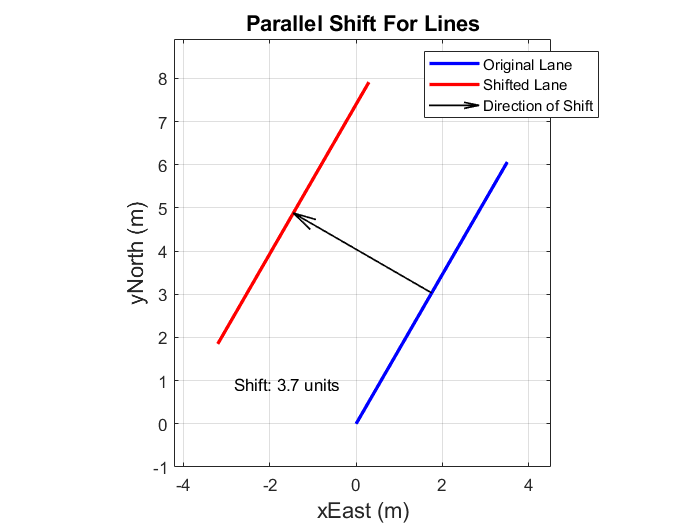
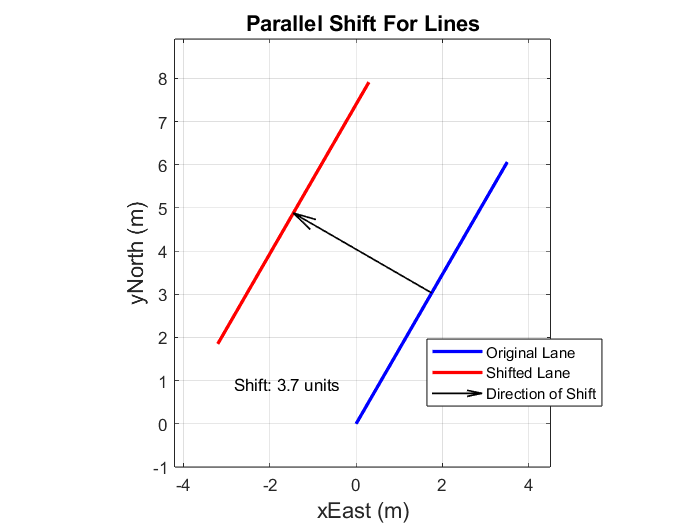
grids added

Changed region(s): [[0.27, 0.061, 0.87, 0.2133], [0.6, 0.64, 0.87, 0.7924], [0.27, 0.8838, 0.78, 0.9143]]

diff --git a/MATLAB/roadArcSpline/mainV8.m b/MATLAB/roadArcSpline/mainV8.m
@@ -15,11 +15,11 @@ HEREname = 'A38_laneData_v2.mat';
     retrieveOSM_v2(lat1, lat2, lon1, lon2, roadName,folderName);
 
 [OSM_lats,OSM_lons,h] = enu2geodetic(xEast,yNorth,0,refLat,refLon,0,wgs84Ellipsoid);
-
-figure;
-geoplot(OSM_lats,OSM_lons,'LineWidth',2)
-title("OpenStreetMap Data Example","FontSize",12)
-geobasemap satellite
+set(groot, 'defaultAxesXGrid', 'on', 'defaultAxesYGrid', 'on', 'defaultAxesZGrid', 'on');
+% figure;
+% geoplot(OSM_lats,OSM_lons,'LineWidth',2)
+% title("OpenStreetMap Data Example","FontSize",12)
+% geobasemap satellite
 
 [laneBorders,laneCenters] = retrieveHERE_v2(folderName,HEREname,refLat,refLon,[lat1 lat2], [lon1 lon2]);
 
@@ -61,6 +61,20 @@ for i = 1:length(xEastCenter)
     [all_clothoids{i}] = ...
         generateClothoids(xEastCenter{i},yNorthCenter{i},theta_GT{i},curvature_GT{i},dk{i},L{i});
 end
+
+figure;
+for i = 1:4
+    [HERE_lats,HERE_lons,h] = enu2geodetic(all_clothoids{1}(i).allX,all_clothoids{1}(i).allY...
+        ,0,refLat,refLon,0,wgs84Ellipsoid);
+
+    geoplot(HERE_lats,HERE_lons,'LineWidth',2)
+    hold on
+    title("G1 Clothoid Fitted Road Segments","FontSize",13)
+    geobasemap satellite
+end
+
+
+
 % Use clothoid fitting to fit lane boundaries
 for i = 2:length(xEastCenter_LB)
     [theta_GT_LB{i},curvature_GT_LB{i},dk_LB{i},L_LB{i},...
@@ -237,7 +251,7 @@ plot(rms_array_shifted,'DisplayName', 'RMS Error','LineWidth',1.5)
 hold on
 plot(max_err_array_shifted,'DisplayName', 'Max Error','LineWidth',1.5)
 ylabel('Error (m)','FontSize',13)
-xlabel('Index of 10 cm subsegment','FontSize',13)
+xlabel('Index of 10 m subsegment','FontSize',13)
 legend()
 title('Error Between Parallel Shifted Lane and Ground Truth','FontSize',13)
 ylim([0 0.3])
@@ -276,7 +290,7 @@ plot(rms_array_shifted_line,'DisplayName', 'RMS Error','LineWidth',1.5)
 hold on
 plot(max_err_array_shifted_line,'DisplayName', 'Max Error','LineWidth',1.5)
 ylabel('Error (m)','FontSize',13)
-xlabel('Index of 10 cm subsegment','FontSize',13)
+xlabel('Index of 10 m subsegment','FontSize',13)
 legend()
 title('Error Between Parallel Shifted Lane and Ground Truth','FontSize',13)
 ylim([0 0.15])
@@ -326,7 +340,7 @@ xlim([1 numel(rms_array_shifted_line)])
 %     legend()
 %     title('Euclidian Error Between Shifted Lane and Ground Truth','FontSize',13)
 % end
-%% Compute rms and max error of a picked reference segment
+%% Compute rms and max error of a picked reference arcspline segment
 segmentNum = 282;
 segmentLength = 1000; % samples
 xEastRef = [segments{1}(segmentNum).allX];
@@ -345,67 +359,67 @@ for j = 1:numel(rms_array_ref)
   [rms_array_ref(j), max_err_array_ref(j), errors] = ...
         computeSegmentError(measurement_xy,ground_truth_xy);
 end
-figure;
-plot(xEastRef,yNorthRef,'DisplayName',"Meas")
-hold on
-plot(ground_truth_xy(:,1),ground_truth_xy(:,2),'DisplayName',"GT")
-axis equal
-legend()
+% figure;
+% plot(xEastRef,yNorthRef,'DisplayName',"Meas")
+% hold on
+% plot(ground_truth_xy(:,1),ground_truth_xy(:,2),'DisplayName',"GT")
+% axis equal
+% legend()
 
 figure;
 plot(rms_array_ref,'DisplayName', 'RMS Error','LineWidth',1.5)
 hold on
-plot(max_err_array_ref,'DisplayName', 'Max Error','LineWidth',1.5)
+plot(max_err_array_ref,'DisplayName', 'Max Error','LineWidth',1.5,'Color',[0.8500, 0.3250, 0.0980])
 ylabel('Error (m)','FontSize',13)
 % yyaxis right
 % ylabel('Curvature (m^-^1)')
-xlabel('Index of 10 cm subsegment','FontSize',13)
+xlabel('Index of 10 m subsegment','FontSize',13)
 % xAxis = linspace(1,length(rms_array{i}),length(curvatures{i}));
 % plot(xAxis,curvatures{i} ,'DisplayName', strcat('Curvature:',num2str(i)))
 legend()
 title('Error Between Approximated Base Lane and Ground Truth','FontSize',13)
 ylim([0 0.1])
 xlim([1 numel(rms_array_ref)])
-%% Compute rms and max error of generated reference lane
-% segmentLength = 100;
-% xEastRef = [];
-% yNorthRef = [];
-% for i = 1:length(segments{1})
-%     sz = size(segments{1}(i).allX);
-%     if sz(1) == 1
-%         xEastRef = [xEastRef segments{1}(i).allX];
-%         yNorthRef = [yNorthRef segments{1}(i).allY];
-%     else
-%         xEastRef = [xEastRef segments{1}(i).allX'];
-%         yNorthRef = [yNorthRef segments{1}(i).allY'];
-%     end
-% end
-% rms_array_ref = zeros(floor(length(xEastRef)/segmentLength),1);
-% max_err_array_ref = zeros(floor(length(yNorthRef)/segmentLength),1);
-% ground_truth_xy = [allX{1} allY{1}];
-% 
-% % for j = 1:floor(length(yNorthRef)/segmentLength)
-% %     start_idx = (j-1) * segmentLength + 1;
-% %     end_idx = j*segmentLength - 1;
-% %     measurement_xy = [xEastRef(start_idx:end_idx)' yNorthRef(start_idx:end_idx)'];
-% % 
-% %     % [rms_error, max_error, errors] = computeSegmentError(measurement_xy,ground_truth_xy);
-% %   [rms_array_ref(j), max_err_array_ref(j), errors] = ...
-% %         computeSegmentError(measurement_xy,ground_truth_xy);
-% % end
-% 
+%% Compute rms and max error of a picked reference line segment
+segmentNum = 275;
+segmentLength = 1000; % samples
+xEastRef = [segments{1}(segmentNum).allX];
+yNorthRef = [segments{1}(segmentNum).allY];
+
+rms_array_ref_line = zeros(floor(length(xEastRef)/segmentLength),1);
+max_err_array_ref_line = zeros(floor(length(yNorthRef)/segmentLength),1);
+ground_truth_xy = [all_clothoids{1}(segmentNum+1).allX' all_clothoids{1}(segmentNum+1).allY'];
+
+for j = 1:numel(rms_array_ref_line)
+    start_idx = (j-1) * segmentLength + 1;
+    end_idx = j*segmentLength - 1;
+    measurement_xy = [xEastRef(start_idx:end_idx) yNorthRef(start_idx:end_idx)];
+
+    % [rms_error, max_error, errors] = computeSegmentError(measurement_xy,ground_truth_xy);
+  [rms_array_ref_line(j), max_err_array_ref_line(j), errors] = ...
+        computeSegmentError(measurement_xy,ground_truth_xy);
+end
 % figure;
-% plot(rms_array,'DisplayName', strcat('RMS Error:',num2str(i)))
+% plot(xEastRef,yNorthRef,'DisplayName',"Meas")
 % hold on
-% plot(max_err_array,'DisplayName', strcat('Max Error:',num2str(i)))
-% ylabel('Error (m)')
-% % yyaxis right
-% % ylabel('Curvature (m^-^1)')
-% xlabel('Segment Number')
-% % xAxis = linspace(1,length(rms_array{i}),length(curvatures{i}));
-% % plot(xAxis,curvatures{i} ,'DisplayName', strcat('Curvature:',num2str(i)))
+% plot(ground_truth_xy(:,1),ground_truth_xy(:,2),'DisplayName',"GT")
+% axis equal
 % legend()
-% title('Error With Respect to HERE Map of Generated Lane')
+
+figure;
+plot(rms_array_ref_line,'DisplayName', 'RMS Error','LineWidth',1.5)
+hold on
+plot(max_err_array_ref_line,'DisplayName', 'Max Error','LineWidth',1.5,'Color',[0.8500, 0.3250, 0.0980])
+ylabel('Error (m)','FontSize',13)
+% yyaxis right
+% ylabel('Curvature (m^-^1)')
+xlabel('Index of 10 m subsegment','FontSize',13)
+% xAxis = linspace(1,length(rms_array{i}),length(curvatures{i}));
+% plot(xAxis,curvatures{i} ,'DisplayName', strcat('Curvature:',num2str(i)))
+legend()
+title('Error Between Approximated Base Lane and Ground Truth','FontSize',13)
+% ylim([0 0.01])
+xlim([1 numel(rms_array_ref_line)])
 
 %% OSM error
 % rms_OSM = zeros(floor(length(xEastShifted{1})/segmentLength),1);

diff --git a/MATLAB/roadArcSpline/fitArcSpline.m b/MATLAB/roadArcSpline/fitArcSpline.m
@@ -1,4 +1,5 @@
-function [clothoidArray,middleArc] = fitArcSpline(init_pos,init_tan,init_curv,clothoid_GT)
+function [clothoidArray,middleArc] = ...
+    fitArcSpline(init_pos,init_tan,init_curv,clothoid_GT)
 % sigma = 0.01; %This is the slope of the curvature plot
 
 theta0 = -(clothoid_GT.init_tan - init_tan);
@@ -10,7 +11,7 @@ xyPairs = [clothoid_GT.allX' clothoid_GT.allY'];
 if(theta0 > 0)
     if(k0 < 0) % init curv is negative
         L = -2 * theta0 / k0;
-        k1 = init_curv + sigma*L; % intermediate curvature
+        k1 = init_curv + sigma*L; % final curvature after fixing heading and curvature
         clothoidArray(1) = clothoid_v2(init_pos, init_tan, init_curv, k1, L);
         x0 = clothoidArray(1).allX(end);
         y0 = clothoidArray(1).allY(end);

diff --git a/MATLAB/plotGenerate/plotBezier.m b/MATLAB/plotGenerate/plotBezier.m
@@ -1,3 +1,4 @@
+set(groot, 'defaultAxesXGrid', 'on', 'defaultAxesYGrid', 'on', 'defaultAxesZGrid', 'on');
 addpath('../roadArcSpline/')
 
 A = [0 0];
@@ -11,10 +12,10 @@ final_curvature = .01;
 trajectories = bezier(A,B,tzero,tfinal,init_curvature,final_curvature);
 
 trajectories.plotCurves(1);
-title("Bézier Curve Example","FontSize",1, 3)
+title("Bézier Curve Example","FontSize",13)
 xlabel("xEast (m)","FontSize",13)
 ylabel("yNorth (m)","FontSize",13)
-
+axis equal
 %% Plot varying P1
 
 trajectories.plotCurvesByControlPoint(1);

diff --git a/MATLAB/plotGenerate/plotClothoidApproxmation.m b/MATLAB/plotGenerate/plotClothoidApproxmation.m
@@ -1,3 +1,4 @@
+set(groot, 'defaultAxesXGrid', 'on', 'defaultAxesYGrid', 'on', 'defaultAxesZGrid', 'on');
 % Parameters for the clothoid
 a = 0.001;    % This constant determines the rate at which curvature changes
 L = 50;     % Total arc length

diff --git a/MATLAB/plotGenerate/plotClothoidCurvature.m b/MATLAB/plotGenerate/plotClothoidCurvature.m
@@ -1,3 +1,4 @@
+set(groot, 'defaultAxesXGrid', 'on', 'defaultAxesYGrid', 'on', 'defaultAxesZGrid', 'on');
 % Parameters for the clothoid
 a = 0.001;    % This constant determines the rate at which curvature changes
 L = 50;     % Total arc length

diff --git a/MATLAB/plotGenerate/arcShift.m b/MATLAB/plotGenerate/arcShift.m
@@ -1,3 +1,4 @@
+set(groot, 'defaultAxesXGrid', 'on', 'defaultAxesYGrid', 'on', 'defaultAxesZGrid', 'on');
 % Define parameters
 center = [0, 0]; % Center of the arcs
 radius1 = 10; % Radius of the first arc (original lane)

diff --git a/MATLAB/plotGenerate/lineShift.m b/MATLAB/plotGenerate/lineShift.m
@@ -1,3 +1,4 @@
+set(groot, 'defaultAxesXGrid', 'on', 'defaultAxesYGrid', 'on', 'defaultAxesZGrid', 'on');
 % Define parameters
 length = 7; % Length of the line
 angle_degrees = 60; % Angle in degrees

diff --git a/MATLAB/plotGenerate/plotClothoid.m b/MATLAB/plotGenerate/plotClothoid.m
@@ -1,3 +1,4 @@
+set(groot, 'defaultAxesXGrid', 'on', 'defaultAxesYGrid', 'on', 'defaultAxesZGrid', 'on');
 addpath('../roadArcSpline/')
 
 init_pos = [0 0];
